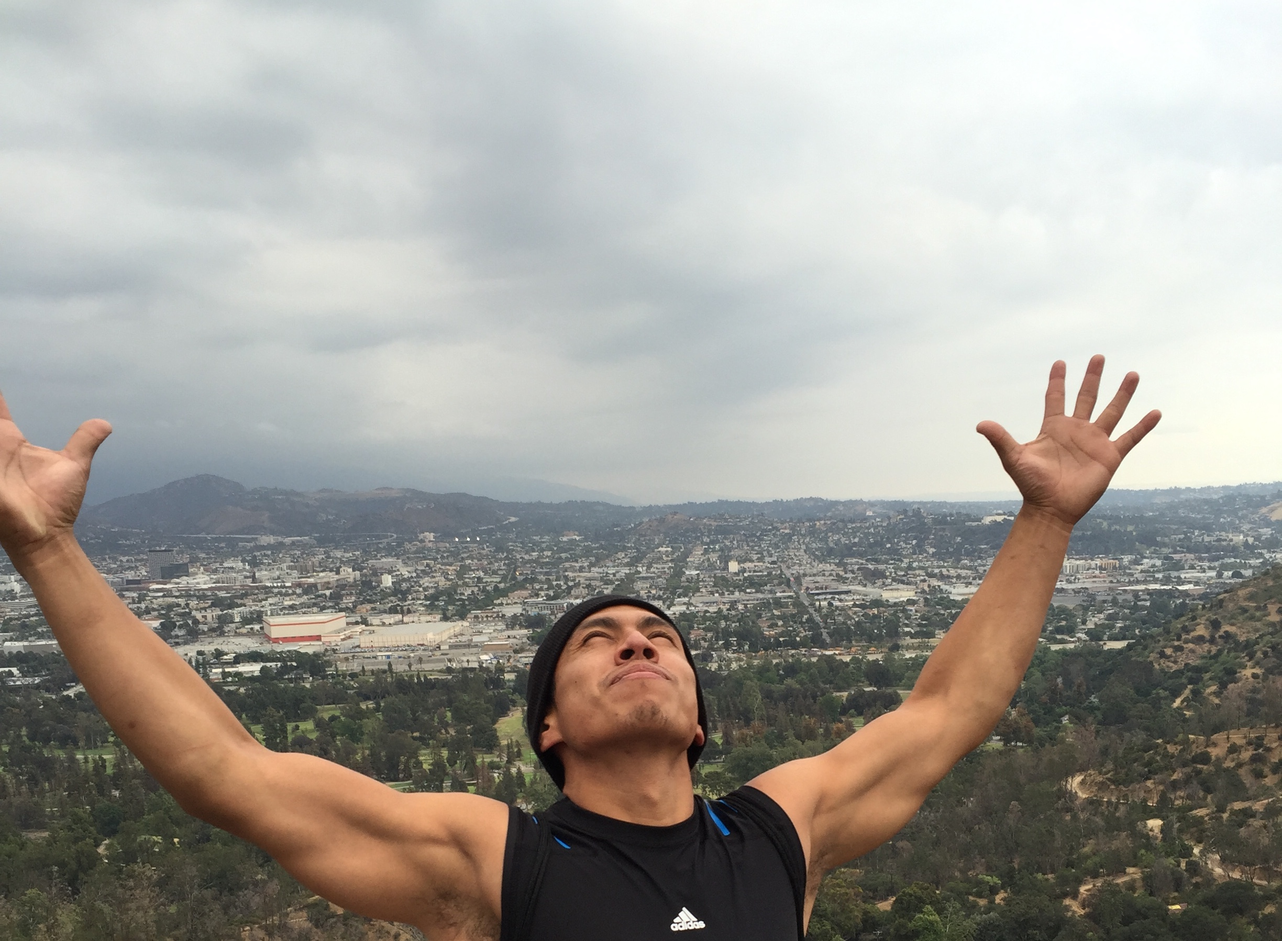
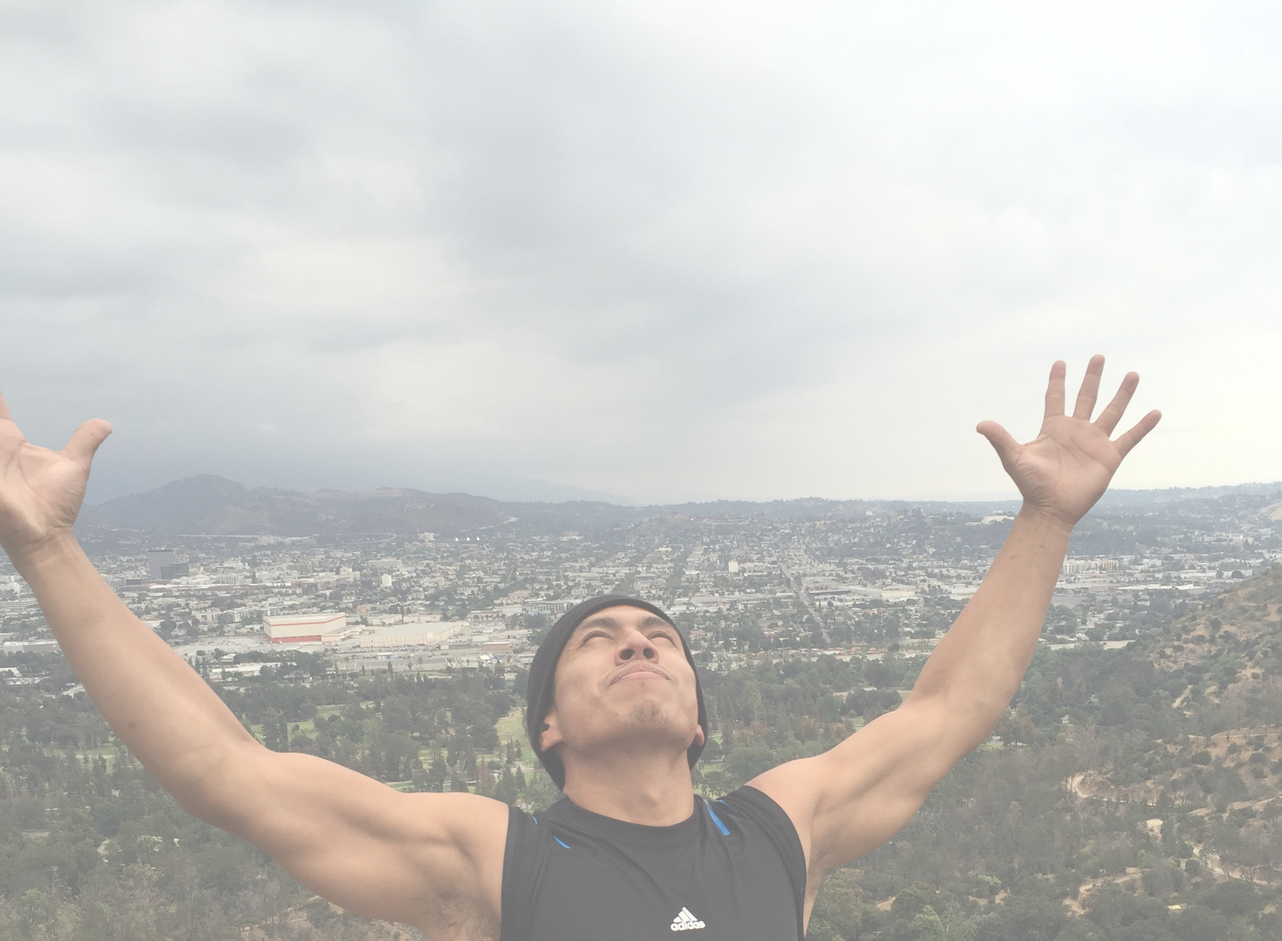
made it look a little better

diff --git a/public/index.html b/public/index.html
@@ -8,13 +8,21 @@
 </head>
 <body id="body">
 
-<div class="container" ng-controller="AppCtrl">
+<div class="container-fluid" ng-controller="AppCtrl">
 	<div class="jumbotron" id="main">
-		  <h1>Hello, world!</h1>
-
+		<div class="page-header">
+			<h1 class="text-center">Hello, world! <small class="lead">I'm <abbr title="Ruiz">Edwin</abbr></small></h1>
+		</div>
 	</div>
-	<h1>Education <span class="glyphicon glyphicon-education"></span></h1>
-	<div>
+	<div class="row">
+		<div class="col-xs-5">
+		<div class="panel panel-default">
+			<div class="panel-heading">
+				<h1>Education <span class="glyphicon glyphicon-education"></span><h1>
+			</div>
+  			<div class="panel-body">
+    			<p>Below is my education history.</p>
+  			</div>
 			<table class="table table-striped">
 				<thead>
 					<tr>
@@ -31,8 +39,17 @@
 					</tr>
 				</tbody>
 			</table>
+		</div>
+		</div>
 
-			<h1>Skills <span class="glyphicon glyphicon-wrench"></span></h1>
+		<div class="col-xs-5 col-xs-offset-2">
+		<div class="panel panel-default">
+			<div class="panel-heading">
+				<h1 class="text-right">Skills <span class="glyphicon glyphicon-wrench"></span></h1>
+			</div>
+  			<div class="panel-body">
+    			<p>Here are a few skills I bring to the table.</p>
+  			</div>
 			<table class="table table-striped">
 				<thead>
 					<tr>
@@ -45,8 +62,16 @@
 					</tr>
 				</tbody>
 			</table>
+		</div>
+	</div>
+		</div>
+		<div class="row">
+			<div class="col-xs-4 col-xs-offset-4">
+		<div class="panel panel-default">
+			<div class="panel-heading">
+				<h1 class="text-center">Projects <span class="glyphicon glyphicon-briefcase"></span></h1>
+			</div>
 
-			<h1>Projects <span class="glyphicon glyphicon-briefcase"></span></h1>
 			<table class="table table-striped">
 				<thead>
 					<tr>
@@ -61,28 +86,31 @@
 					</tr>
 				</tbody>
 			</table>
+			</div>
+		</div>
+		</div>
+	</div>
+
+	<div class="col-xs-12">
+		<blockquote class="blockquote-reverse">
+			<p>People can cheat and rob you of almost any possession but hard work belongs to you, and you alone.</p>
+			<footer>-Firas Zahabi</footer>
+		</blockquote>
 	</div>
 
 
-
-	</div>
 	<script src="https://ajax.googleapis.com/ajax/libs/angularjs/1.2.30/angular.min.js"></script>
 	<script src="controllers/controller.js"></script>
-	<script>
-		$(document).ready(){
-	var rotation = function (){
 
-   $("#main").rotate({
-      angle:0,
-      animateTo:360,
-      callback: rotation,
-      easing: function (x,t,b,c,d){        // t: current time, b: begInnIng value, c: change In value, d: duration
-          return c*(t/d)+b;
-      }
-   });
-}
-rotation();
-}
-</script>
 </body>
+<footer>
+	<div class="container row">
+
+		<div class="col-xs-4 col-xs-offset-1">
+			<a href="https://www.linkedin.com/in/edwin-ruiz-6b631410a"><img src="img/In-2C-28px-R.png"></a>
+			<a href="https://github.com/edwinruizr"><img src="img/Octocat.png"></a>
+		</div>
+
+	</div>
+</footer>
 </html>

diff --git a/server.js b/server.js
@@ -38,7 +38,7 @@ app.use(bodyParser.json());
 
 	});
 
-console.log("Server running on port 3000, DON'T FORGET TO CHANGE TO 80 when all done");
+console.log("Server running on port 3000, DON'T FORGET TO CHANGE TO 8080 when all done");
 //node server ======= to start server!!
 //start mongod first /
 //call mongo on another terminal to see whats in database

diff --git a/public/controllers/controller.js b/public/controllers/controller.js
@@ -1,4 +1,4 @@
-var myApp=angular.module('myApp',[]);
+var myApp= angular.module('myApp',[]);
 
 myApp.controller('AppCtrl',['$scope','$http',function($scope,$http){
 	console.log('name');
